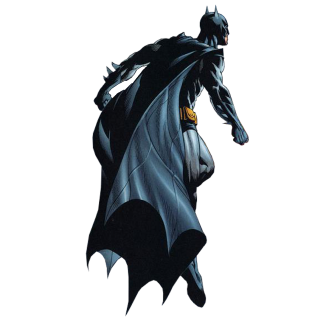
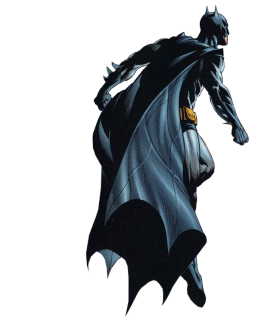
commit n°34: --dossier Assets/Illustrations: réduction de l'encombrement de l'image Batgame_11.png --fichier _game.scss lignes 129, 133 à 135: modification des valeurs des propriétés top, left et width de la classe imageQuestion-8 suite à la réduction de l'encombrement de l'image Batgame_11.png

diff --git a/Js/game.js b/Js/game.js
@@ -152,9 +152,9 @@ bouton.addEventListener("click", (e) => {
 			enabled(); // on active les cases à cocher
 			unchecked(); // on éfface les cochages éventuels
 
-			$(".quiz").fadeOut(4000);
+			// $(".quiz").fadeOut(4000);
 			jeux(letter); // on affiche la question suivante
-			$(".quiz").fadeIn(4000);
+			// $(".quiz").fadeIn(4000);
 
 			// console.log("AAAAAAAAA");
 			choose(); // choix d'une réponse

diff --git a/Styles/styles.css b/Styles/styles.css
@@ -602,9 +602,9 @@ main section .quiz .imageQuestion-7 {
 main section .quiz .imageQuestion-8 {
   display: none;
   position: absolute;
-  top: 13vw;
-  left: 8.5vw;
-  width: 18vw;
+  top: 13.3vw;
+  left: 8.8vw;
+  width: 14.6vw;
 }
 main section .quiz .imageQuestion-9 {
   display: none;

diff --git a/Sass/pages/_game.scss b/Sass/pages/_game.scss
@@ -129,9 +129,9 @@ main {
 			.imageQuestion-8 {
 				display: none;
 				position: absolute;
-				top: 13vw;
-				left: 8.5vw;
-				width: 18vw;
+				top: 13.3vw;
+				left: 8.8vw;
+				width: 14.6vw;
 			}
 			.imageQuestion-9 {
 				display: none;
